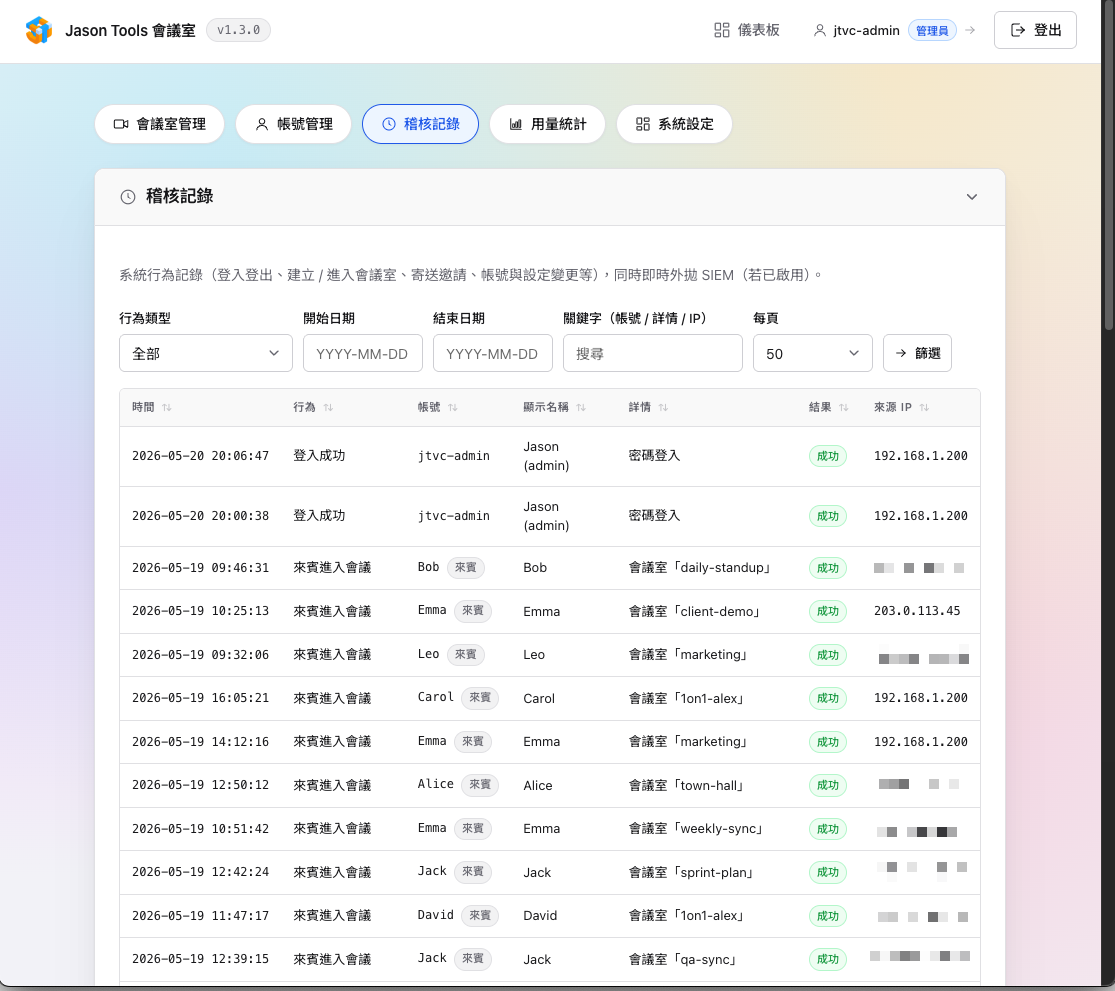
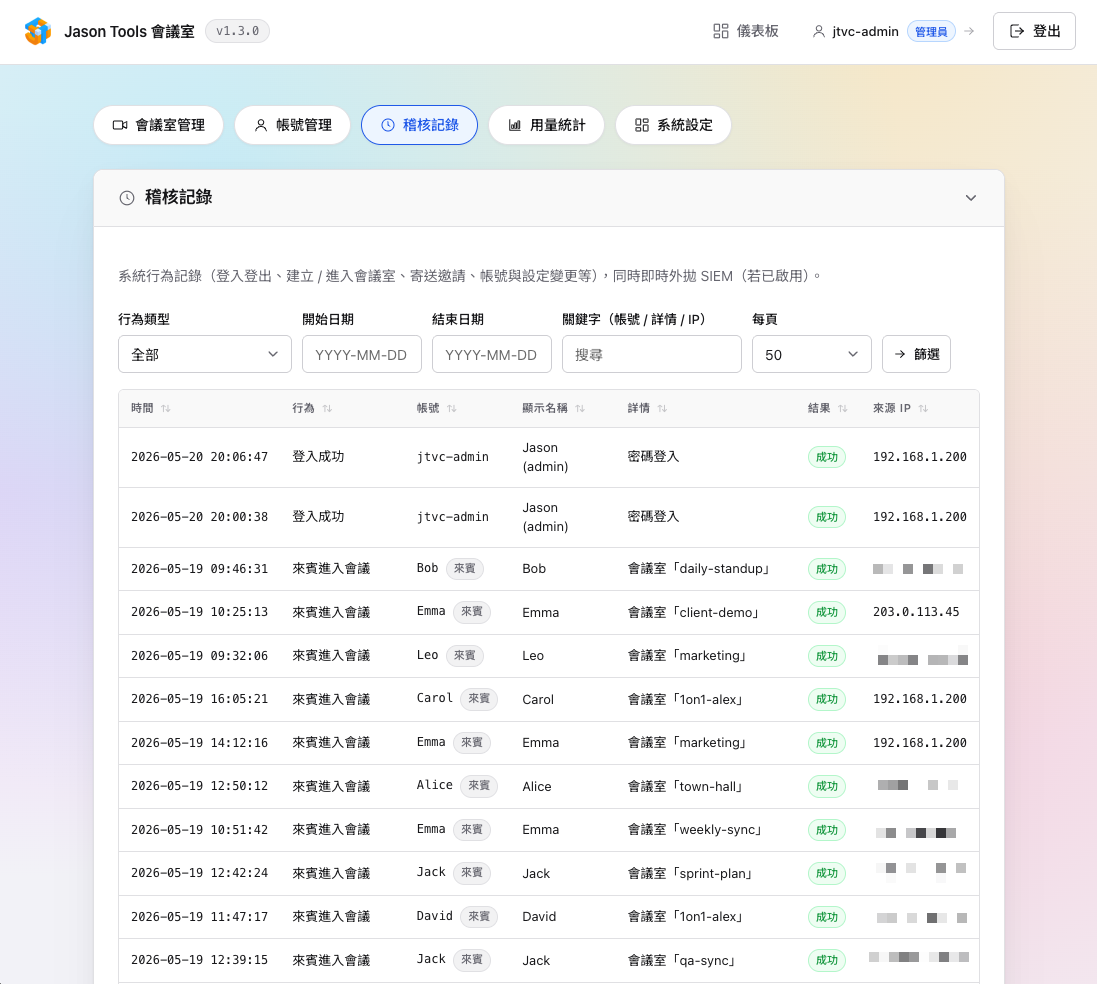
docs: 截圖亮度精準裁切(全去瀏覽器外殼/陰影/鄰窗)；OWASP 補 A06/A10 湊滿十項； 比較表/需求表兩欄等寬+首欄底色；8x8 備註美化；畫面說明加長；footer 改 Jason Tools；不改碼→不動程式碼

diff --git a/docs/index.html b/docs/index.html
@@ -36,7 +36,7 @@
     </div>
     <h1>Jitsi Meet <span class="grad">認證閘道系統</span></h1>
     <p class="lead">搭配 Jitsi Meet 基底的會議入口系統：主持人登入後建立會議室、產生邀請連結（QR / 行事曆邀請），來賓憑連結加入。<strong>同時支援 <a href="https://jaas.8x8.vc/" target="_blank" rel="noopener">8x8 JaaS</a> 與<a href="https://github.com/jitsi/jitsi-meet" target="_blank" rel="noopener">自建 Jitsi Meet</a></strong>，內建多帳號 / 角色 / 2FA、完整稽核與排程。</p>
-    <p class="lead-note">註：8x8 自 2018 年起為 Jitsi / Jitsi Meet 的開發與維護公司；<strong>8x8 JaaS（Jitsi as a Service）</strong>即其官方雲端託管的 Jitsi 服務。</p>
+    <p class="lead-note"><svg class="ln-ico" viewBox="0 0 24 24" fill="none" stroke="currentColor" stroke-width="1.8" stroke-linecap="round" stroke-linejoin="round"><circle cx="12" cy="12" r="9"/><path d="M12 11v6"/><path d="M12 8v.01"/></svg><span>8x8 自 2018 年起為 <strong>Jitsi / Jitsi Meet</strong> 的開發與維護公司；<strong>8x8 JaaS（Jitsi as a Service）</strong>即其官方雲端託管的 Jitsi 服務。</span></p>
     <div class="cta">
       <a class="btn btn-primary" href="#install">開始安裝</a>
       <a class="btn btn-ghost" href="https://github.com/jasoncheng7115/jt-vc-portal" target="_blank" rel="noopener">在 GitHub 查看</a>
@@ -77,7 +77,7 @@
           <li>統一入口：主持人登入才能建室，行為全程稽核</li>
           <li>預約時段、來賓需具名、主持人在線才放行</li>
           <li>多帳號 / 角色 / 2FA；登入記錄可外拋 syslog/CEF/GELF</li>
-          <li>雙模式：<a href="https://jaas.8x8.vc/" target="_blank" rel="noopener">8x8 JaaS</a> 或<a href="https://github.com/jitsi/jitsi-meet" target="_blank" rel="noopener">自建 Jitsi Meet</a>，一鍵切換不改碼</li>
+          <li>雙模式：<a href="https://jaas.8x8.vc/" target="_blank" rel="noopener">8x8 JaaS</a> 或<a href="https://github.com/jitsi/jitsi-meet" target="_blank" rel="noopener">自建 Jitsi Meet</a>，一鍵切換不動程式碼</li>
         </ul>
       </div>
     </div>
@@ -139,7 +139,7 @@
       </div>
     </div>
 
-    <table style="margin-top:26px">
+    <table class="compare-table" style="margin-top:26px">
       <thead><tr><th>項目</th><th>8x8 JaaS</th><th>自建 Jitsi Meet</th></tr></thead>
       <tbody>
         <tr><td>維運負擔</td><td>無（全代管）</td><td>需自行維運</td></tr>
@@ -166,9 +166,11 @@
       <div class="row"><span class="tag">A03</span><div><b>供應鏈</b><span>零外部 PHP 套件；映像建置時套用最新 OS 安全更新。</span></div></div>
       <div class="row"><span class="tag">A04</span><div><b>加密</b><span>bcrypt 密碼、JWT 簽章、webhook HMAC、安全 session cookie。</span></div></div>
       <div class="row"><span class="tag">A05</span><div><b>注入</b><span>輸出跳脫、輸入清洗、Email header injection 防護。</span></div></div>
+      <div class="row"><span class="tag">A06</span><div><b>不安全設計</b><span>閘道式架構、預設安全（來賓須具名、主持人在線才放行）、角色最小權限。</span></div></div>
       <div class="row"><span class="tag">A07</span><div><b>認證</b><span>TOTP 2FA、fail2ban 登入鎖定（依真實來源 IP）。</span></div></div>
       <div class="row"><span class="tag">A08</span><div><b>資料完整性</b><span>webhook 驗簽、idempotency 去重。</span></div></div>
       <div class="row"><span class="tag">A09</span><div><b>記錄與告警</b><span>完整稽核記錄 + 即時 SIEM 外拋。</span></div></div>
+      <div class="row"><span class="tag">A10</span><div><b>例外處理</b><span>失敗安全降級：讀取失敗回預設、寄信 / 外拋失敗不阻斷主流程、錯誤不外洩。</span></div></div>
     </div>
   </div>
 </section>
@@ -182,35 +184,35 @@
     <div class="showcase">
       <div class="sc-row">
         <figure class="shot sc-shot"><div class="frame"><img src="images/01-dashboard.png" alt="儀表板" loading="lazy" onerror="this.style.display='none';this.parentElement.classList.add('empty')"></div></figure>
-        <div class="sc-text"><span class="num">01</span><h3>儀表板</h3><p>登入後的主控台：一鍵建立 / 進入會議室、近期清單顯示誰建立、何時進入、開了多久，所有操作全程稽核。</p></div>
+        <div class="sc-text"><span class="num">01</span><h3>儀表板</h3><p>登入後的主控台：輸入房名即可一鍵建立或進入會議室，也能亂數產生房名。下方「近期會議室」清單會顯示每間是<strong>誰建立、何時進入、開了多久</strong>，以及預約 / 大廳 / 主持人在線等狀態，所有操作全程稽核。</p></div>
       </div>
       <div class="sc-row">
         <figure class="shot sc-shot"><div class="frame"><img src="images/02-create.png" alt="建立會議室" loading="lazy" onerror="this.style.display='none';this.parentElement.classList.add('empty')"></div></figure>
-        <div class="sc-text"><span class="num">02</span><h3>建立會議室</h3><p>勾選即設定預約開放時段、與會者 Email 邀請、大廳模式，支援亂數產生房名，建立後立即取得邀請連結。</p></div>
+        <div class="sc-text"><span class="num">02</span><h3>建立會議室</h3><p>勾選「限定開放時段」即可設定會議開放時間並寄送含 <code>.ics</code> 行事曆的 Email 邀請；也能勾選「大廳模式」讓主持人逐一允許來賓進入。建立後立即取得邀請連結與 QR Code，可直接開始主持或先複製連結稍後使用。</p></div>
       </div>
       <div class="sc-row">
         <figure class="shot sc-shot"><div class="frame"><img src="images/03-usage.png" alt="用量統計" loading="lazy" onerror="this.style.display='none';this.parentElement.classList.add('empty')"></div></figure>
-        <div class="sc-text"><span class="num">03</span><h3>用量統計</h3><p>本期 MAU、歷史趨勢、近 30 天活動圖、會議時長時間軸與主持人排行榜一目了然（JaaS 模式）。</p></div>
+        <div class="sc-text"><span class="num">03</span><h3>用量統計</h3><p>JaaS 模式專屬的數據中心：本期 MAU 用量與方案上限、各計費週期的歷史趨勢、近 30 天活動折線圖，加上本期會議時長時間軸與主持人排行榜，使用狀況一目了然，並可手動校正用量基準。</p></div>
       </div>
       <div class="sc-row">
         <figure class="shot sc-shot"><div class="frame"><img src="images/04-audit.png" alt="稽核記錄" loading="lazy" onerror="this.style.display='none';this.parentElement.classList.add('empty')"></div></figure>
-        <div class="sc-text"><span class="num">04</span><h3>稽核記錄</h3><p>登入、建室、邀請、設定變更等行為全數記錄，可依日期範圍篩選、欄位點擊排序，並即時外拋 SIEM。</p></div>
+        <div class="sc-text"><span class="num">04</span><h3>稽核記錄</h3><p>登入登出、建立 / 進入會議室、寄送邀請、帳號與設定變更等行為全數留存。可依行為類型、關鍵字與日期範圍篩選，欄位標題可點擊排序，並即時外拋 syslog / CEF / GELF 至 SIEM。</p></div>
       </div>
       <div class="sc-row">
         <figure class="shot sc-shot"><div class="frame"><img src="images/05-accounts.png" alt="帳號管理" loading="lazy" onerror="this.style.display='none';this.parentElement.classList.add('empty')"></div></figure>
-        <div class="sc-text"><span class="num">05</span><h3>帳號管理</h3><p>多帳號與角色（admin / host）、TOTP 兩步驟驗證，顯示名稱與 Email 皆可編輯。</p></div>
+        <div class="sc-text"><span class="num">05</span><h3>帳號管理</h3><p>支援多個主持人帳號與角色：admin 可看全部會議室與管理頁，host 只看自己建立的。每個帳號可設定顯示名稱、Email、啟用 TOTP 兩步驟驗證，並可隨時編輯或停用。</p></div>
       </div>
       <div class="sc-row">
         <figure class="shot sc-shot"><div class="frame"><img src="images/06-settings.png" alt="系統設定" loading="lazy" onerror="this.style.display='none';this.parentElement.classList.add('empty')"></div></figure>
-        <div class="sc-text"><span class="num">06</span><h3>系統設定</h3><p>集中管理連線模式（JaaS / 自建）、SMTP 寄信、Log 外拋、站台名稱與 Logo、22 種外觀主題。</p></div>
+        <div class="sc-text"><span class="num">06</span><h3>系統設定</h3><p>集中管理所有設定：連線模式（8x8 JaaS / 自建 Jitsi Meet）、SMTP 寄信、會議記錄保留天數、Log 外拋、站台名稱與 Logo，以及 22 種外觀主題，一頁搞定。</p></div>
       </div>
       <div class="sc-row">
         <figure class="shot sc-shot"><div class="frame"><img src="images/07-guest.png" alt="來賓進入" loading="lazy" onerror="this.style.display='none';this.parentElement.classList.add('empty')"></div></figure>
-        <div class="sc-text"><span class="num">07</span><h3>來賓進入</h3><p>來賓憑邀請連結進入，須先輸入名稱才進場；整體套用站台主題，體驗一致。</p></div>
+        <div class="sc-text"><span class="num">07</span><h3>來賓進入</h3><p>來賓憑邀請連結進入，須先輸入顯示名稱才能進場，進入會議時自動帶入該名稱。整個來賓流程都套用站台主題與品牌，與主持端體驗一致。</p></div>
       </div>
       <div class="sc-row">
         <figure class="shot sc-shot"><div class="frame"><img src="images/08-wait.png" alt="等候 / 倒數頁" loading="lazy" onerror="this.style.display='none';this.parentElement.classList.add('empty')"></div></figure>
-        <div class="sc-text"><span class="num">08</span><h3>等候 / 倒數頁</h3><p>非開放時段時，來賓看到翻頁時鐘倒數；主持人提前進入即自動放行，無需苦等。</p></div>
+        <div class="sc-text"><span class="num">08</span><h3>等候 / 倒數頁</h3><p>非開放時段時，來賓會看到優雅的翻頁時鐘倒數與會議起訖時間；一旦主持人提前進入，系統每隔數秒自動偵測並放行，來賓無需重整、不必苦等。</p></div>
       </div>
     </div>
   </div>
@@ -223,7 +225,7 @@
     <h2>系統需求與安裝</h2>
     <p class="section-sub">兩種安裝方式，資料與設定皆持久化、更新不遺失。</p>
 
-    <table style="margin-bottom:28px">
+    <table class="compare-table" style="margin-bottom:28px">
       <thead><tr><th>項目</th><th>最低</th><th>建議</th></tr></thead>
       <tbody>
         <tr><td>PHP</td><td>8.2</td><td>8.4</td></tr>
@@ -314,7 +316,7 @@ server {
 <!-- FOOTER -->
 <footer>
   <div class="wrap">
-    <div>© <span id="yr"></span> Jason Cheng · 以 Apache License 2.0 釋出</div>
+    <div>© <span id="yr"></span> Jason Tools · 以 Apache License 2.0 釋出</div>
     <div class="ftlinks">
       <a href="https://github.com/jasoncheng7115/jt-vc-portal" target="_blank" rel="noopener">原始碼</a>
       <a href="https://github.com/jasoncheng7115/jt-vc-portal/issues" target="_blank" rel="noopener">問題回報</a>

diff --git a/docs/style.css b/docs/style.css
@@ -61,8 +61,9 @@ h2{font-size:33px;letter-spacing:-.025em;margin:0 0 10px;line-height:1.2}
 .hero h1{font-size:52px;line-height:1.1;letter-spacing:-.035em;margin:0 0 18px;font-weight:800;background:var(--grad);-webkit-background-clip:text;background-clip:text;-webkit-text-fill-color:transparent;color:transparent}
 .hero h1 .grad{background:none;-webkit-text-fill-color:transparent;color:transparent}
 .hero p.lead{font-size:19px;color:var(--muted);max-width:660px;margin:0 auto 14px}
-.hero .lead-note{font-size:13px;color:var(--soft);max-width:600px;margin:0 auto 28px;line-height:1.6}
-.hero .lead-note strong{color:var(--muted)}
+.hero .lead-note{display:inline-flex;align-items:flex-start;gap:9px;text-align:left;max-width:600px;margin:0 auto 30px;padding:11px 16px;font-size:13px;line-height:1.65;color:var(--muted);background:rgba(255,255,255,.55);border:1px solid var(--border);border-radius:12px;backdrop-filter:blur(6px)}
+.hero .lead-note .ln-ico{width:17px;height:17px;flex-shrink:0;margin-top:1px;color:var(--accent-2)}
+.hero .lead-note strong{color:var(--text);font-weight:600}
 .hero .cta{display:flex;gap:12px;justify-content:center;flex-wrap:wrap}
 .badges{display:flex;gap:8px;justify-content:center;flex-wrap:wrap;margin-top:30px}
 .badges img{height:22px}
@@ -143,6 +144,12 @@ th,td{text-align:left;padding:11px 16px;border-bottom:1px solid var(--border)}
 td:not(:last-child),th:not(:last-child){border-right:1px solid var(--border)}
 tbody tr:last-child td{border-bottom:0}
 th{background:var(--bg-muted);font-size:12px;color:var(--text);font-weight:700;text-transform:uppercase;letter-spacing:.04em;border-bottom:2px solid var(--border-strong)}
+
+/* 比較表：兩模式欄等寬、首欄(項目)底色區隔 */
+.compare-table{table-layout:fixed}
+.compare-table th:first-child,.compare-table td:first-child{width:18%;background:var(--bg-muted);font-weight:600;color:var(--text)}
+.compare-table th:nth-child(2),.compare-table td:nth-child(2),
+.compare-table th:nth-child(3),.compare-table td:nth-child(3){width:41%}
 tr:last-child td{border-bottom:0}
 
 /* disclaimer */

diff --git a/README.md b/README.md
@@ -18,7 +18,7 @@
 
 ## 功能特色
 
-- **雙連線模式**：8x8 JaaS（雲端託管，RS256 + kid）或自建 Jitsi Meet（HS256 或免 JWT），於管理介面一鍵切換，免改程式。
+- **雙連線模式**：8x8 JaaS（雲端託管，RS256 + kid）或自建 Jitsi Meet（HS256 或免 JWT），於管理介面一鍵切換，不動程式碼。
 - **會議室管理**：建立 / 進入會議室、亂數命名、近期清單、一鍵複製邀請、QR Code 彈窗。
 - **預約時段**：可設定開放時段；時段未到顯示翻頁時鐘倒數，主持人提前進入即自動放行。
 - **來賓流程**：來賓必填顯示名稱才進場；非開放時段顯示等候 / 倒數 / 已結束頁。
